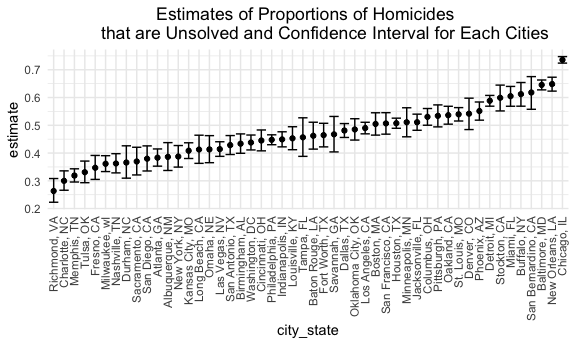
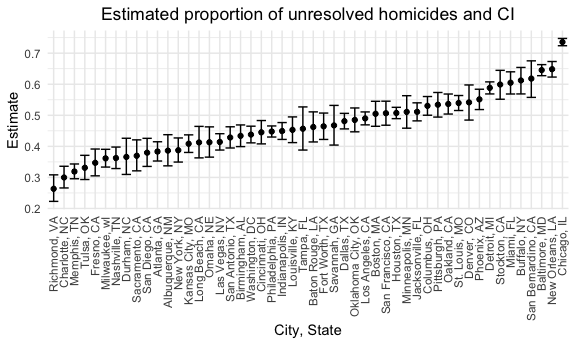
problem 2 - data vis.

diff --git a/p8105_hw5_mm5951.md b/p8105_hw5_mm5951.md
@@ -278,8 +278,8 @@ prop_test_unresolved = function(homicide_df) {
     iterate over, and the function to apply (`prop_test_homicide()`.
     Then, a “tidy_results” object is generated with the results, which
     is then unnested to select the variables of interest (“city_state”,
-    “estimate”, and confidence intervals). Results are visualized below
-    using `knitr::kable()`.
+    “estimate”, and confidence intervals (CI)). Results are visualized
+    below using `knitr::kable()`.
 
 ``` r
 results_df = 
@@ -352,13 +352,14 @@ results_df %>%
 
 ### Data visualization
 
-Prompt: Create a plot that shows the estimates and CIs for each city –
-check out geom_errorbar for a way to add error bars based on the upper
-and lower limits. Organize cities according to the proportion of
-unsolved homicides.
+Finally, results as above are summarised in a plot that shows the
+estimates and CIs for each city. In doing so:
 
-Make a plot showing estimates and confidence intervals for each cities
-and organize cities according to the proportion of unsolved homicides.
+- Cities are reordered by estimate of unresolved crimes using
+  `fct_reorder()`;
+- Data is visualized using `ggplot()` and the scatterplot
+  `geom_point()`;
+- CIs are visualized using `geom_errorbar()`
 
 ``` r
 results_df %>% 
@@ -366,8 +367,10 @@ results_df %>%
   ggplot(aes(x = city_state, y = estimate)) +
   geom_point() +
   geom_errorbar(aes(ymin = conf.low, ymax = conf.high)) +
-  labs(title = "Estimates of Proportions of Homicides 
-       that are Unsolved and Confidence Interval for Each Cities") +
+  labs(
+    title = "Estimated proportion of unresolved homicides and CI",
+    x = "City, State",
+    y = "Estimate")+
   theme(axis.text.x = element_text(angle = 90, vjust = 0.5, hjust = 1),
         plot.title = element_text(hjust = 0.5))
 ```
